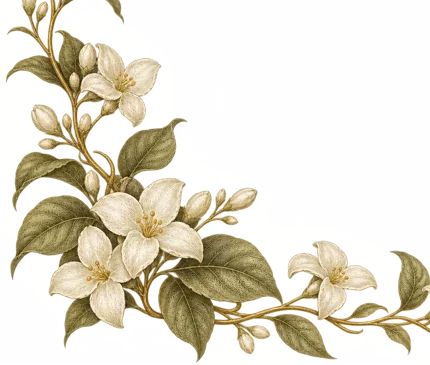
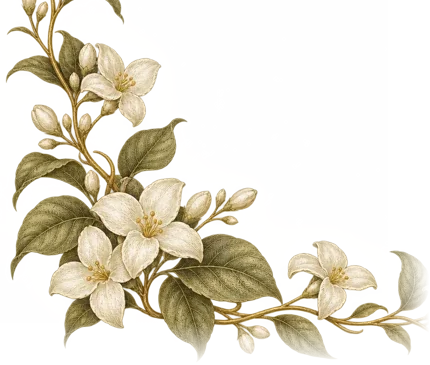
Keep Olive Motion artwork in frame during reveals

diff --git a/templates/olive-motion/style.css b/templates/olive-motion/style.css
@@ -39,18 +39,60 @@ body {
 .pill.small { min-height: 44px; font-size: .75rem; }
 
 .cover, .arch, .oval .photo { background: #eee6d4; }
-.cover-copy { padding-bottom: 14svh; }
+.cover:not(.leaving) { overflow-y: auto; }
+.cover-bg { position: absolute; inset: 0; overflow: hidden; pointer-events: none; }
+.cover-copy {
+  gap: clamp(.25rem, 1svh, .55rem);
+  min-width: 0;
+  padding: 1rem 1.25rem clamp(1.25rem, 9svh, 5.5rem);
+}
+.guest { overflow-wrap: anywhere; }
 .arch { width: min(46vw, 210px, 29svh); border-color: var(--paper); outline: 1px solid #a88b52; box-shadow: 0 10px 24px #303b2829; }
 .arch.tall { width: min(58%, 240px); }
 .cover-forest { bottom: 0; height: 62%; opacity: .54; }
-.cover-flowers { bottom: -3%; height: 45%; }
-.layer i, .palm i { background-size: 100% 100%; }
+.cover-flowers { bottom: 0; height: 45%; }
+.hero { min-height: 0; }
+.layer i, .palm i { background-size: contain; }
 .far { bottom: 28%; aspect-ratio: 960 / 360; }
 .near { bottom: 18%; aspect-ratio: 960 / 385; }
 .forest { bottom: 0; aspect-ratio: 960 / 680; }
-.palm { bottom: 10%; width: 35%; aspect-ratio: 238 / 480; }
-.palm.left { left: -10%; }
-.palm.right { right: -10%; }
+.palm { bottom: 8%; width: 29%; max-height: 46%; aspect-ratio: 238 / 480; }
+.palm.left, .closing .palm.left { left: 1%; }
+.palm.right, .closing .palm.right { right: 1%; }
+.bloom, .c-flowers { left: 0; right: 0; bottom: 0; }
+.bloom i { transform-origin: 50% 100%; }
+.hero-copy { top: clamp(.5rem, 24svh, calc(100% - 16rem)); }
+body.opened .dolly {
+  animation-name: olive-dolly;
+}
+body.opened .hero-inner { animation-name: olive-title-in; }
+body.opened .bloom i {
+  animation-name: olive-bloom-rise, olive-breathe;
+}
+@keyframes olive-dolly {
+  from { transform: scale(1.16); }
+  to { transform: none; }
+}
+@keyframes olive-title-in {
+  from { opacity: 0; transform: translateY(12px); }
+  to { opacity: 1; transform: none; }
+}
+@keyframes olive-bloom-rise {
+  from { opacity: 0; transform: translateY(55%); }
+  40% { opacity: 1; }
+  to { opacity: 1; transform: none; }
+}
+@keyframes olive-breathe {
+  from { transform: none; }
+  to { transform: translateY(-1%); }
+}
+[data-reveal="zoom"]:not(.in),
+[data-reveal="zoom-out"]:not(.in) { transform: translateY(12px); }
+[data-reveal="blur"] { filter: none; }
+@media (prefers-reduced-motion: reduce) {
+  [data-reveal="zoom"]:not(.in),
+  [data-reveal="zoom-out"]:not(.in) { transform: none; }
+}
 .laces svg { color: #a18448; filter: drop-shadow(0 0 4px var(--cream)); }
 .birds svg { color: var(--olive, #46523b); }
 .hero-inner { padding: .9rem 1.15rem; background: radial-gradient(ellipse, #fffdf5e8, #fffdf5b3 55%, transparent 76%); }
@@ -60,8 +102,12 @@ body {
 .couple-section::after { opacity: .28; }
 .partner h3, .chapter h3 { color: var(--navy); }
 .social { background: var(--blue-deep); }
-.save-title { color: #fff; text-shadow: 0 2px 18px var(--deep); }
-.save-photo::after { background: linear-gradient(transparent 20%, #20291d88 80%); }
+.save-date { padding-bottom: 1.25rem; background: var(--deep); }
+.save-photo { height: auto; }
+.save-photo img, .story-photo img { height: auto; }
+.save-photo::after { content: none; }
+.save-title { position: relative; top: auto; margin: .9rem 0 .7rem; color: var(--paper); }
+.countdown { position: relative; inset: auto; margin: 0 14px; }
 .countdown div { background: var(--cream); border: 1px solid var(--line); box-shadow: 0 6px 16px #20291d30; }
 
 .blue-band { background: linear-gradient(#303b28f5, #20291df5), url('./assets/backdrop.webp') center / cover; }
@@ -85,7 +131,11 @@ body {
 .wishes .who svg, .wishes time { color: var(--muted); }
 
 .story, .gallery-section { background: var(--paper); }
+.story-photo { aspect-ratio: auto; overflow: hidden; }
+.gallery a img { object-fit: contain; }
+.gallery a:hover img { transform: none; }
 .story-photo, .gallery a { background: var(--cream); box-shadow: 0 8px 24px #20291d26; }
+.closing .palm { width: 31%; bottom: 2%; }
 .closing { padding-bottom: min(62vw, 290px); }
 .c-forest { aspect-ratio: 960 / 680; }
 .music { background: var(--deep); color: var(--paper); border-color: var(--gold-soft); }

diff --git a/templates/olive-motion/tools/draw.py b/templates/olive-motion/tools/draw.py
@@ -2,7 +2,7 @@
 
 from pathlib import Path
 
-from PIL import Image, ImageDraw, ImageOps
+from PIL import Image, ImageChops, ImageDraw, ImageOps
 
 theme = Path(__file__).resolve().parents[1]
 garden = theme.parent / "olive-garden" / "assets"
@@ -34,10 +34,22 @@ save(fade_crop((230, 220, 990, 455), (960, 360), 165, .68), "mountains-far")
 save(fade_crop((120, 298, 1110, 578), (960, 385), 150, .83), "mountains-near")
 save(fade_crop((65, 355, 1105, 800), (960, 680), 280), "forest")
 
-stem = botanical.crop((0, 0, 238, 480))
+def botanical_crop(box, feather=42):
+    image = botanical.crop(box)
+    width, height = image.size
+    mask = Image.new("L", image.size)
+    mask.putdata([
+        round(255 * min(1, (width - 1 - x) / feather, (height - 1 - y) / feather))
+        for y in range(height) for x in range(width)
+    ])
+    image.putalpha(ImageChops.multiply(image.getchannel("A"), mask))
+    return image
+
+
+stem = botanical_crop((0, 0, 238, 480))
 save(stem, "palm")
 save(stem.rotate(-28, expand=True, resample=Image.Resampling.BICUBIC), "leaves")
-save(botanical.crop((0, 135, 430, 500)), "bouquet")
+save(botanical_crop((0, 135, 430, 500)), "bouquet")
 
 flowers = Image.new("RGBA", (960, 680))
 corner = ImageOps.contain(botanical, (710, 495), Image.Resampling.LANCZOS)
